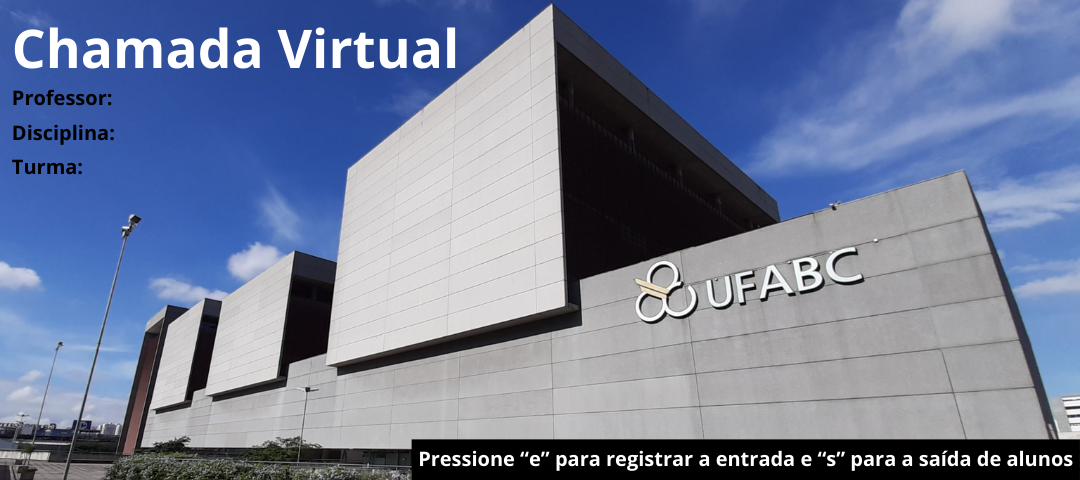
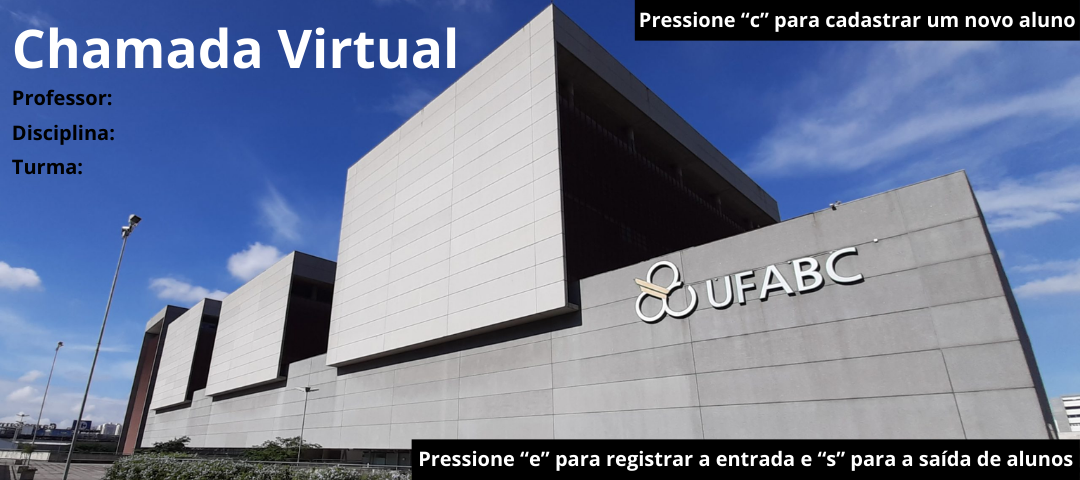
Novas telas e função de cadastro

Changed region(s): [[0.5806, 0.0, 1.0, 0.0938]]

diff --git a/Projeto Final/Código/projeto.py b/Projeto Final/Código/projeto.py
@@ -9,73 +9,94 @@ import json
 from datetime import datetime
 import pandas as pd
 
-#---------------------------
-#-   Definição dos Paths   -
-#---------------------------
+
+#--------------------------------------
+#-   Definição dos paths e variáveis  -
+#--------------------------------------
 Camera_Index = 0
+winName = 'Chamada Virtual - Grupo 6'
 Path_CascadeClassifier = "Assets/haarcascade_frontalface_default.xml"
-Path_TelaInicial = "Assets/Background-Inicial.png"
 Path_TelaCadastro = "Assets/Background-Cadastro.png"
+Path_TelaInicial = "Assets/Background-Inicial.png"
+Path_TelaCaptura = "Assets/Background-Captura.png"
 Path_TelaEncerramento = "Assets/Background-Final.png"
 Path_JsonClassDetails = "Assets/class_details.json"
 Path_FacialModel = "Assets/facial_expression_model_structure.json"
 Path_FacialWeights = "Assets/facial_expression_model_weights.h5"
 
 
-#-----------------------------
-#-   opencv initialization   -
-#-----------------------------
+#----------------------
+#-   Inicializações   -
+#----------------------
+# Definição do classificador para detecção dos rostos
 face_cascade = cv2.CascadeClassifier(Path_CascadeClassifier)
+
+# Definiçção do modelo utilizado para reconhecimento da expressão facial
+model = model_from_json(open(Path_FacialModel, "r").read())
+
+# Definição dos pesos do modelo utilizado para reconhecimento da expressão facial
+model.load_weights(Path_FacialWeights)
+
+# Definição das imagens suportadas
+emotions = ('angry', 'disgust', 'fear', 'happy', 'sad', 'surprise', 'neutral')
+
+# Definição da entrada de vídeo
 cap = cv2.VideoCapture(Camera_Index)
 
-
-
-# Create the pandas DataFrame
+# Criação do DataFrame Pandas
 df_ListaDePresenca = pd.DataFrame(columns=['Nome do Aluno', 'Horário Entrada', 'Emoção Entrada', 'Horário Saída', 'Emoção Saída'])
 
-
-#--------------------------------
-#-   interface initialization   -
-#--------------------------------
-#Carrega o backgroud de cada etapa
-TelaInicial = cv2.imread(Path_TelaInicial)
+# Carrega o backgroud de cada etapa
 TelaCadastro = cv2.imread(Path_TelaCadastro)
+TelaInicial = cv2.imread(Path_TelaInicial)
+TelaCaptura = cv2.imread(Path_TelaCaptura)
 TelaEncerramento = cv2.imread(Path_TelaEncerramento)
 
-# Convert JSON String to Python
+# Define a janela de exibição das imagens
+cv2.namedWindow(winName, cv2.WINDOW_FULLSCREEN)
+
+# Posiciona a janela na posição (100, 100)
+cv2.moveWindow(winName, 100, 100)
+
+# Leitura do json com as informações da turma
 with open(Path_JsonClassDetails, "r", encoding="utf-8") as j:
      class_details = json.loads(j.read())
 
-# Print values using keys
-cv2.putText(TelaInicial, class_details['Professor'], (120, 105), cv2.FONT_HERSHEY_SIMPLEX, 0.75, (0,0,0), 1)
-cv2.putText(TelaInicial, class_details['Disciplina'], (120, 140), cv2.FONT_HERSHEY_SIMPLEX, 0.75, (0,0,0), 1)
-cv2.putText(TelaInicial, class_details['Turma'], (90, 175), cv2.FONT_HERSHEY_SIMPLEX, 0.75, (0,0,0), 1)
 
-# Define a janela de exibição das imagens, com tamanho automático
-winName = 'Chamada Virtual - Grupo 6'
-cv2.namedWindow(winName, cv2.WINDOW_FULLSCREEN)
+#--------------------------------------------
+#-   Função para cadastro de novos alunos   -
+#--------------------------------------------
+def CadastraAluno():
+	# Exibe o Loop para cadastro dos alunos
+	Capturando = True
+	while(Capturando==True):
+		# Lê a webcam
+		ret, cam = cap.read()
+		
+		# Atualiza a tela de cadastro
+		img = cv2.hconcat([cam, TelaCadastro])
 
-# Posiciona a janela na metade direita do (meu) monitor
-cv2.moveWindow(winName, 100, 100)
+		# Exibe a tela
+		cv2.imshow(winName,img)
 
-
-
-
-
-#-----------------------------------------------
-#-  face expression recognizer initialization  -
-#-----------------------------------------------
-model = model_from_json(open(Path_FacialModel, "r").read())
-model.load_weights(Path_FacialWeights)
-emotions = ('angry', 'disgust', 'fear', 'happy', 'sad', 'surprise', 'neutral')
+		# Verifica se o cadastro foi concluído
+		if cv2.waitKey(1) & 0xFF == ord('q'): #press q to quit
+			Capturando = False
 
 
 
+#------------------------------------------
+#-   Função para identificação do aluno   -
+#------------------------------------------
 def DetectaAluno(detected_face):
 	pass
 
 
 
+
+#----------------------------------------------------
+#-   Função para identificação da emoção do aluno   -
+#----------------------------------------------------
 def DetectaEmocao(detected_face):
 	#detecta a emoção
 	img_pixels = img_to_array(detected_face)
@@ -93,10 +114,18 @@ def DetectaEmocao(detected_face):
 	return emotion
 
 
+
+#-------------------------------------------------------
+#-   Função para gerar uma resposta para cada emoção   -
+#-------------------------------------------------------
 def GerarCondicionalDeEmocao(emotion):
 	pass
 
 
+
+#-------------------------------------------------------------------------------
+#-   Função para gravar as informações de presença e humor no banco de dados   -
+#-------------------------------------------------------------------------------
 def GravarNoBanco(df_ListaDePresenca, aluno, emocao, periodo, horario, Total_Students):
 	# Grava a entrada do aluno
 	if (periodo == 1):
@@ -126,47 +155,58 @@ def GravarNoBanco(df_ListaDePresenca, aluno, emocao, periodo, horario, Total_Stu
 		# O aluno não marcou a entrada
 		else:
 			pass
-		
-
-
 	return df_ListaDePresenca, Total_Students
 
+
+#--------------------------------------------------
+#-   Função para gerar o relatório do professor   -
+#--------------------------------------------------
 def GerarRelatorio(df_ListaDePresenca):
 	# print dataframe.
 	print(df_ListaDePresenca)
-	
+
+
 #----------------------------
 #-      Loop Principal      -
 #----------------------------
+# Adiciona as informações da turma na tela inicial
+cv2.putText(TelaInicial, class_details['Professor'], (120, 105), cv2.FONT_HERSHEY_SIMPLEX, 0.75, (0,0,0), 1)
+cv2.putText(TelaInicial, class_details['Disciplina'], (120, 140), cv2.FONT_HERSHEY_SIMPLEX, 0.75, (0,0,0), 1)
+cv2.putText(TelaInicial, class_details['Turma'], (90, 175), cv2.FONT_HERSHEY_SIMPLEX, 0.75, (0,0,0), 1)
 
-
-# Repetição - Dia de Aula
+# Variáveis de estado do programa
 Periodo = 0
 DandoAula=True
-Cadastrando=False
+Capturando=False
 
-
+# Loop principal
 while(DandoAula==True):
 	#Exibe tela inicial com informações da turma
 	cv2.imshow(winName, TelaInicial)
 	
-	# Decide se é entrada ou saída dos alunos
+	# Decide se é cadastro, entrada ou saída dos alunos
 	while (Periodo==0):
-		if cv2.waitKey(1) & 0xFF == ord('e'):
+		# Cadastro de alunos
+		if cv2.waitKey(1) & 0xFF == ord('c'):
+			CadastraAluno()
+			cv2.imshow(winName, TelaInicial)
+		# Entrada de alunos
+		elif cv2.waitKey(1) & 0xFF == ord('e'):
 			Periodo = 1
-			TelaCadastro = cv2.imread(Path_TelaCadastro)
+			TelaCaptura = cv2.imread(Path_TelaCaptura)
 			cv2.putText(TelaCadastro, "Entrada", (110, 40), cv2.FONT_HERSHEY_SIMPLEX, 1, (0,0,0), 2)
+		# Saída de alunos
 		elif cv2.waitKey(1) & 0xFF == ord('s'):
 			Periodo = 2
-			TelaCadastro = cv2.imread(Path_TelaCadastro)
+			TelaCaptura = cv2.imread(Path_TelaCaptura)
 			cv2.putText(TelaCadastro, "Saida", (110, 40), cv2.FONT_HERSHEY_SIMPLEX, 1, (0,0,0), 2)
 
-	# Habilita a etapa de cadastro e inicializa as variáveis
-	Cadastrando = True
+	# Habilita a etapa de cadastro e inicializa a variável contadora de alunos registrados
+	Capturando = True
 	Total_Students = 0
 
 	# Exibe o Loop para registro dos alunos
-	while(Cadastrando==True):
+	while(Capturando==True):
 		# Lê a webcam
 		ret, cam = cap.read()
 		gray = cv2.cvtColor(cam, cv2.COLOR_BGR2GRAY)
@@ -199,36 +239,37 @@ while(DandoAula==True):
 				Student_Name = 'Aluno1'
 				df_ListaDePresenca, Total_Students = GravarNoBanco(df_ListaDePresenca, Student_Name, Student_emotion, Periodo, datetime.now(), Total_Students)
 
-
 		# Atualiza a tela de cadastro
-		img = cv2.hconcat([cam, TelaCadastro])
+		img = cv2.hconcat([cam, TelaCaptura])
 
-		#write total students text above rectangle
+		# Adiciona as informações atualizadas na tela
 		cv2.putText(img, str(Total_Students), (920, 70), cv2.FONT_HERSHEY_SIMPLEX, 1, (0,0,0), 2)
-		#write student text above rectangle
 		cv2.putText(img, str(Student_Name), (760, 400), cv2.FONT_HERSHEY_SIMPLEX, 1, (0,0,0), 2)
-		#write emotion text above rectangle
 		cv2.putText(img, str(Student_emotion), (760, 430), cv2.FONT_HERSHEY_SIMPLEX, 1, (0,0,0), 2)
+
+		# Exibe a tela
 		cv2.imshow(winName,img)
 
 		# Verifica se o cadastro foi concluído
 		if cv2.waitKey(1) & 0xFF == ord('q'): #press q to quit
-			Cadastrando = False
+			Capturando = False
 	
+
 	# Decide o fluxo com base no período
 	if Periodo == 1:
 		# Finalizou a entrada - Volta para tela inicial   
 		Periodo = 0
 	elif Periodo == 2:
-		# Finalizou a saída - gerar relatório e encerrar o programa
+		# Finalizou a saída - gerar relatório
 		GerarRelatorio(df_ListaDePresenca)
 		# Atualiza a tela de encerramento
 		cv2.imshow(winName,TelaEncerramento)
+		#  Encerrar o programa
 		while (DandoAula==True):
 			if cv2.waitKey(1) & 0xFF == ord('x'):
 				DandoAula = False
 
 
-#kill open cv things		
+# Fechas a câmera e janela aberta		
 cap.release()
 cv2.destroyAllWindows()
